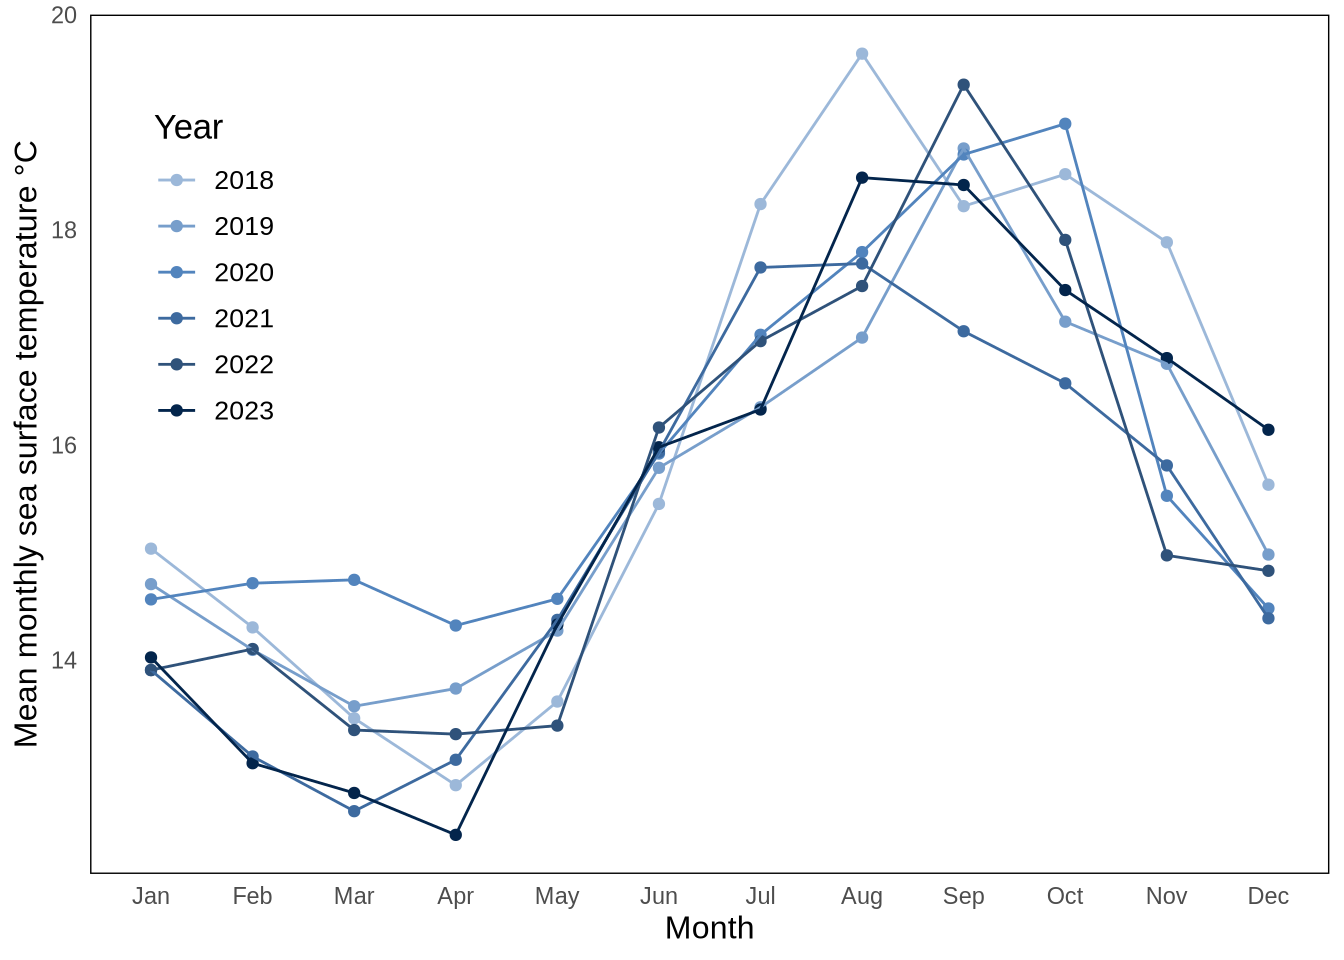
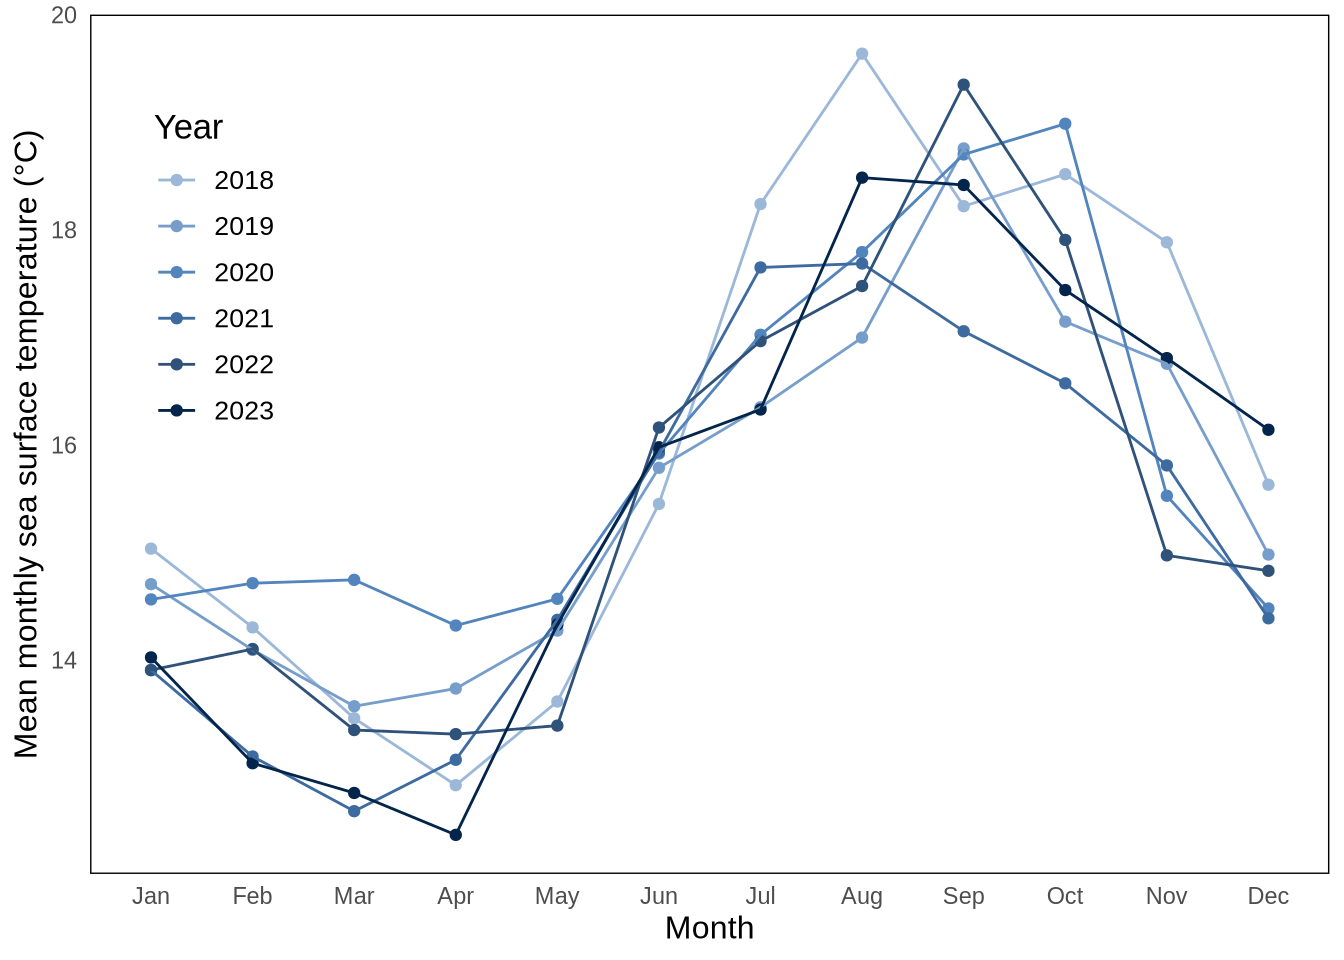
final render, formatting check

Changed region(s): [[0.0, 0.1875, 0.0312, 0.7812]]

diff --git a/code/ENVS-193DS_spring-2025_final.html b/code/ENVS-193DS_spring-2025_final.html
@@ -186,11 +186,11 @@ pre > code.sourceCode > span > a:first-child::before { text-decoration: underlin
 <pre><code># A tibble: 5 × 3
   year  month mean_monthly_sst
   &lt;fct&gt; &lt;ord&gt;            &lt;dbl&gt;
-1 2018  Nov               17.9
-2 2020  Jan               14.6
-3 2023  Mar               12.8
-4 2021  Jun               15.9
-5 2018  Dec               15.6</code></pre>
+1 2022  May               13.4
+2 2018  Jul               18.2
+3 2018  Mar               13.5
+4 2022  Mar               13.3
+5 2023  Mar               12.8</code></pre>
 </div>
 <div class="sourceCode cell-code" id="cb5"><pre class="sourceCode r code-with-copy"><code class="sourceCode r"><span id="cb5-1"><a href="#cb5-1" aria-hidden="true" tabindex="-1"></a><span class="fu">str</span>(sst_clean) <span class="co"># viewing clean dataset structure</span></span></code><button title="Copy to Clipboard" class="code-copy-button"><i class="bi"></i></button></pre></div>
 <div class="cell-output cell-output-stdout">
@@ -212,7 +212,7 @@ pre > code.sourceCode > span > a:first-child::before { text-decoration: underlin
 <span id="cb7-8"><a href="#cb7-8" aria-hidden="true" tabindex="-1"></a>  </span>
 <span id="cb7-9"><a href="#cb7-9" aria-hidden="true" tabindex="-1"></a>  <span class="co"># labeling the axis and legend</span></span>
 <span id="cb7-10"><a href="#cb7-10" aria-hidden="true" tabindex="-1"></a>  <span class="fu">labs</span>(<span class="at">x =</span> <span class="st">"Month"</span>, <span class="co"># labeling the x-axis</span></span>
-<span id="cb7-11"><a href="#cb7-11" aria-hidden="true" tabindex="-1"></a>       <span class="at">y =</span> <span class="st">"Mean monthly sea surface temperature °C"</span>, <span class="co"># labeling the y-axis</span></span>
+<span id="cb7-11"><a href="#cb7-11" aria-hidden="true" tabindex="-1"></a>       <span class="at">y =</span> <span class="st">"Mean monthly sea surface temperature (°C)"</span>, <span class="co"># labeling the y-axis</span></span>
 <span id="cb7-12"><a href="#cb7-12" aria-hidden="true" tabindex="-1"></a>       <span class="at">color =</span> <span class="st">"Year"</span>) <span class="sc">+</span> <span class="co"># setting legend title</span></span>
 <span id="cb7-13"><a href="#cb7-13" aria-hidden="true" tabindex="-1"></a>  <span class="fu">scale_color_manual</span>(<span class="at">values =</span> <span class="fu">c</span>( <span class="co"># manually defining colors for each year</span></span>
 <span id="cb7-14"><a href="#cb7-14" aria-hidden="true" tabindex="-1"></a>    <span class="st">"2018"</span> <span class="ot">=</span> year2018_col,</span>
@@ -391,6 +391,9 @@ model3  2 229.6716
 model2  2 236.3744
 model0  1 238.8318</code></pre>
 </div>
+</div>
+<p>The best model as determined by Akaike’s Information Criterion (AIC) is the saturated model, including season and distance to forest edge.</p>
+<div class="cell">
 <div class="sourceCode cell-code" id="cb15"><pre class="sourceCode r code-with-copy"><code class="sourceCode r"><span id="cb15-1"><a href="#cb15-1" aria-hidden="true" tabindex="-1"></a><span class="co"># Viewing model summary</span></span>
 <span id="cb15-2"><a href="#cb15-2" aria-hidden="true" tabindex="-1"></a><span class="fu">summary</span>(model1)</span></code><button title="Copy to Clipboard" class="code-copy-button"><i class="bi"></i></button></pre></div>
 <div class="cell-output cell-output-stdout">
@@ -416,7 +419,6 @@ AIC: 226.21
 Number of Fisher Scoring iterations: 4</code></pre>
 </div>
 </div>
-<p>The best model as determined by Akaike’s Information Criterion (AIC) is the saturated model, including season and distance to forest edge with an AICc value of 226.3.</p>
 <p><strong>[H] Visualize the model predictions</strong></p>
 <div class="cell">
 <div class="sourceCode cell-code" id="cb17"><pre class="sourceCode r code-with-copy"><code class="sourceCode r"><span id="cb17-1"><a href="#cb17-1" aria-hidden="true" tabindex="-1"></a>model1_predictions <span class="ot">&lt;-</span> <span class="fu">ggpredict</span>( <span class="co"># generating predicted values from the logistic regression model1</span></span>
@@ -426,7 +428,8 @@ Number of Fisher Scoring iterations: 4</code></pre>
 <span id="cb17-5"><a href="#cb17-5" aria-hidden="true" tabindex="-1"></a>) <span class="sc">|&gt;</span> </span>
 <span id="cb17-6"><a href="#cb17-6" aria-hidden="true" tabindex="-1"></a>  <span class="fu">rename</span>(<span class="at">edge_distance =</span> x, <span class="co"># renaming the columns</span></span>
 <span id="cb17-7"><a href="#cb17-7" aria-hidden="true" tabindex="-1"></a>         <span class="at">season =</span> group)</span>
-<span id="cb17-8"><a href="#cb17-8" aria-hidden="true" tabindex="-1"></a>model1_predictions<span class="sc">$</span>season <span class="ot">&lt;-</span> <span class="fu">as.character</span>(model1_predictions<span class="sc">$</span>season) <span class="co"># convert column from factor to character</span></span></code><button title="Copy to Clipboard" class="code-copy-button"><i class="bi"></i></button></pre></div>
+<span id="cb17-8"><a href="#cb17-8" aria-hidden="true" tabindex="-1"></a></span>
+<span id="cb17-9"><a href="#cb17-9" aria-hidden="true" tabindex="-1"></a>model1_predictions<span class="sc">$</span>season <span class="ot">&lt;-</span> <span class="fu">as.character</span>(model1_predictions<span class="sc">$</span>season) <span class="co"># convert column from factor to character</span></span></code><button title="Copy to Clipboard" class="code-copy-button"><i class="bi"></i></button></pre></div>
 </div>
 <div class="cell">
 <div class="sourceCode cell-code" id="cb18"><pre class="sourceCode r code-with-copy"><code class="sourceCode r"><span id="cb18-1"><a href="#cb18-1" aria-hidden="true" tabindex="-1"></a><span class="co"># base layer: ggplot</span></span>
@@ -456,39 +459,63 @@ Number of Fisher Scoring iterations: 4</code></pre>
 <span id="cb18-25"><a href="#cb18-25" aria-hidden="true" tabindex="-1"></a>            <span class="fu">aes</span>(<span class="at">x =</span> edge_distance, <span class="co"># x-axis</span></span>
 <span id="cb18-26"><a href="#cb18-26" aria-hidden="true" tabindex="-1"></a>                <span class="at">y =</span> predicted, <span class="co"># y-axis (probability)</span></span>
 <span id="cb18-27"><a href="#cb18-27" aria-hidden="true" tabindex="-1"></a>                <span class="at">color =</span> season, <span class="at">group =</span> season), <span class="co"># line and group color by season</span></span>
-<span id="cb18-28"><a href="#cb18-28" aria-hidden="true" tabindex="-1"></a>            <span class="at">size =</span> <span class="fl">1.2</span>, <span class="co"># line thickness</span></span>
-<span id="cb18-29"><a href="#cb18-29" aria-hidden="true" tabindex="-1"></a>            <span class="at">inherit.aes =</span> <span class="cn">FALSE</span>) <span class="sc">+</span> <span class="co"># avoid main aesthetics</span></span>
-<span id="cb18-30"><a href="#cb18-30" aria-hidden="true" tabindex="-1"></a> </span>
-<span id="cb18-31"><a href="#cb18-31" aria-hidden="true" tabindex="-1"></a>  <span class="co"># manually setting colors for seasons</span></span>
-<span id="cb18-32"><a href="#cb18-32" aria-hidden="true" tabindex="-1"></a>  <span class="fu">scale_color_manual</span>(<span class="at">values =</span> <span class="fu">c</span>(<span class="st">"2016"</span> <span class="ot">=</span> <span class="st">"steelblue"</span>, <span class="st">"2019"</span> <span class="ot">=</span> <span class="st">"darkred"</span>)) <span class="sc">+</span></span>
-<span id="cb18-33"><a href="#cb18-33" aria-hidden="true" tabindex="-1"></a>  <span class="fu">scale_fill_manual</span>(<span class="at">values =</span> <span class="fu">c</span>(<span class="st">"2016"</span> <span class="ot">=</span> <span class="st">"steelblue"</span>, <span class="st">"2019"</span> <span class="ot">=</span> <span class="st">"darkred"</span>)) <span class="sc">+</span></span>
-<span id="cb18-34"><a href="#cb18-34" aria-hidden="true" tabindex="-1"></a>  </span>
-<span id="cb18-35"><a href="#cb18-35" aria-hidden="true" tabindex="-1"></a>  <span class="co"># wrapping x-axis labels</span></span>
-<span id="cb18-36"><a href="#cb18-36" aria-hidden="true" tabindex="-1"></a>  <span class="fu">scale_x_discrete</span>(<span class="at">labels =</span> <span class="fu">label_wrap</span>(<span class="at">width =</span> <span class="dv">10</span>)) <span class="sc">+</span></span>
-<span id="cb18-37"><a href="#cb18-37" aria-hidden="true" tabindex="-1"></a>  </span>
-<span id="cb18-38"><a href="#cb18-38" aria-hidden="true" tabindex="-1"></a>  <span class="co"># creating different panels for each species</span></span>
-<span id="cb18-39"><a href="#cb18-39" aria-hidden="true" tabindex="-1"></a>  <span class="fu">facet_wrap</span>(<span class="sc">~</span>season, <span class="at">nrow =</span> <span class="dv">1</span>) <span class="sc">+</span></span>
-<span id="cb18-40"><a href="#cb18-40" aria-hidden="true" tabindex="-1"></a>  </span>
-<span id="cb18-41"><a href="#cb18-41" aria-hidden="true" tabindex="-1"></a>  <span class="co"># labeling x- and y-axis</span></span>
-<span id="cb18-42"><a href="#cb18-42" aria-hidden="true" tabindex="-1"></a>  <span class="fu">labs</span>(<span class="at">x =</span> <span class="st">"Distance from Forest Edge (m)"</span>,</span>
-<span id="cb18-43"><a href="#cb18-43" aria-hidden="true" tabindex="-1"></a>       <span class="at">y =</span> <span class="st">"Swift Parrot Presence"</span>) <span class="sc">+</span></span>
-<span id="cb18-44"><a href="#cb18-44" aria-hidden="true" tabindex="-1"></a>  </span>
-<span id="cb18-45"><a href="#cb18-45" aria-hidden="true" tabindex="-1"></a>  <span class="fu">theme_minimal</span>(<span class="at">base_size =</span> <span class="dv">14</span>) <span class="sc">+</span> <span class="co"># minimal theme</span></span>
-<span id="cb18-46"><a href="#cb18-46" aria-hidden="true" tabindex="-1"></a>  <span class="fu">theme</span>(  <span class="co"># custom theming</span></span>
-<span id="cb18-47"><a href="#cb18-47" aria-hidden="true" tabindex="-1"></a>    <span class="at">legend.position =</span> <span class="st">"none"</span>, <span class="co"># remove color legend</span></span>
-<span id="cb18-48"><a href="#cb18-48" aria-hidden="true" tabindex="-1"></a>    <span class="at">panel.grid.major =</span> <span class="fu">element_blank</span>(), <span class="at">panel.grid.minor =</span> <span class="fu">element_blank</span>() <span class="co"># remove major and minor gridlines</span></span>
-<span id="cb18-49"><a href="#cb18-49" aria-hidden="true" tabindex="-1"></a>  )</span></code><button title="Copy to Clipboard" class="code-copy-button"><i class="bi"></i></button></pre></div>
+<span id="cb18-28"><a href="#cb18-28" aria-hidden="true" tabindex="-1"></a>            <span class="at">size =</span> <span class="fl">1.2</span>) <span class="sc">+</span> <span class="co"># line thickness</span></span>
+<span id="cb18-29"><a href="#cb18-29" aria-hidden="true" tabindex="-1"></a> </span>
+<span id="cb18-30"><a href="#cb18-30" aria-hidden="true" tabindex="-1"></a>  <span class="co"># manually setting colors for seasons</span></span>
+<span id="cb18-31"><a href="#cb18-31" aria-hidden="true" tabindex="-1"></a>  <span class="fu">scale_color_manual</span>(<span class="at">values =</span> <span class="fu">c</span>(<span class="st">"2016"</span> <span class="ot">=</span> <span class="st">"steelblue"</span>, <span class="st">"2019"</span> <span class="ot">=</span> <span class="st">"darkred"</span>)) <span class="sc">+</span></span>
+<span id="cb18-32"><a href="#cb18-32" aria-hidden="true" tabindex="-1"></a>  <span class="fu">scale_fill_manual</span>(<span class="at">values =</span> <span class="fu">c</span>(<span class="st">"2016"</span> <span class="ot">=</span> <span class="st">"steelblue"</span>, <span class="st">"2019"</span> <span class="ot">=</span> <span class="st">"darkred"</span>)) <span class="sc">+</span></span>
+<span id="cb18-33"><a href="#cb18-33" aria-hidden="true" tabindex="-1"></a>  </span>
+<span id="cb18-34"><a href="#cb18-34" aria-hidden="true" tabindex="-1"></a>  <span class="co"># wrapping x-axis labels</span></span>
+<span id="cb18-35"><a href="#cb18-35" aria-hidden="true" tabindex="-1"></a>  <span class="fu">scale_x_discrete</span>(<span class="at">labels =</span> <span class="fu">label_wrap</span>(<span class="at">width =</span> <span class="dv">10</span>)) <span class="sc">+</span></span>
+<span id="cb18-36"><a href="#cb18-36" aria-hidden="true" tabindex="-1"></a>  </span>
+<span id="cb18-37"><a href="#cb18-37" aria-hidden="true" tabindex="-1"></a>  <span class="co"># creating different panels for each species</span></span>
+<span id="cb18-38"><a href="#cb18-38" aria-hidden="true" tabindex="-1"></a>  <span class="fu">facet_wrap</span>(<span class="sc">~</span>season, <span class="at">nrow =</span> <span class="dv">1</span>) <span class="sc">+</span></span>
+<span id="cb18-39"><a href="#cb18-39" aria-hidden="true" tabindex="-1"></a>  </span>
+<span id="cb18-40"><a href="#cb18-40" aria-hidden="true" tabindex="-1"></a>  <span class="co"># labeling x- and y-axis</span></span>
+<span id="cb18-41"><a href="#cb18-41" aria-hidden="true" tabindex="-1"></a>  <span class="fu">labs</span>(<span class="at">x =</span> <span class="st">"Distance from Forest Edge (m)"</span>,</span>
+<span id="cb18-42"><a href="#cb18-42" aria-hidden="true" tabindex="-1"></a>       <span class="at">y =</span> <span class="st">"Probability of Swift Parrot Occupying Nest Boxes"</span>) <span class="sc">+</span></span>
+<span id="cb18-43"><a href="#cb18-43" aria-hidden="true" tabindex="-1"></a>  </span>
+<span id="cb18-44"><a href="#cb18-44" aria-hidden="true" tabindex="-1"></a>  <span class="fu">theme_minimal</span>(<span class="at">base_size =</span> <span class="dv">14</span>) <span class="sc">+</span> <span class="co"># minimal theme</span></span>
+<span id="cb18-45"><a href="#cb18-45" aria-hidden="true" tabindex="-1"></a>  <span class="fu">theme</span>(  <span class="co"># custom theming</span></span>
+<span id="cb18-46"><a href="#cb18-46" aria-hidden="true" tabindex="-1"></a>    <span class="at">legend.position =</span> <span class="st">"none"</span>, <span class="co"># remove color legend</span></span>
+<span id="cb18-47"><a href="#cb18-47" aria-hidden="true" tabindex="-1"></a>    <span class="at">panel.grid.major =</span> <span class="fu">element_blank</span>(), <span class="at">panel.grid.minor =</span> <span class="fu">element_blank</span>() <span class="co"># remove major and minor gridlines</span></span>
+<span id="cb18-48"><a href="#cb18-48" aria-hidden="true" tabindex="-1"></a>  )</span></code><button title="Copy to Clipboard" class="code-copy-button"><i class="bi"></i></button></pre></div>
 <div class="cell-output-display">
 <div>
 <figure class="figure">
-<p><img src="ENVS-193DS_spring-2025_final_files/figure-html/unnamed-chunk-8-1.png" class="img-fluid figure-img" width="1152"></p>
+<p><img src="ENVS-193DS_spring-2025_final_files/figure-html/unnamed-chunk-9-1.png" class="img-fluid figure-img" width="1152"></p>
 </figure>
 </div>
 </div>
 </div>
-<p><strong>[I]</strong></p>
+<p><strong>Figure 1.</strong> Swift Parrot Presence Probability by Distance from Forest Edge and Season. This figure shows observed Swift Parrot presence plotted against distance from the forest edge, separated by season (2016 and 2019). Jittered points represent individual occupancy observations from nest boxes. Predicted probabilities of Swift Parrot presence from a logistic regression model (model1) are overlaid with a 95% confidence interval. The predictions illustrate how the likelihood of Swift Parrot presence varies with edge distance between seasons.</p>
 <p><strong>[J] Calculate model predictions</strong></p>
-<p><strong>[K] </strong></p>
+<div class="cell">
+<div class="sourceCode cell-code" id="cb19"><pre class="sourceCode r code-with-copy"><code class="sourceCode r"><span id="cb19-1"><a href="#cb19-1" aria-hidden="true" tabindex="-1"></a>sp_prediction <span class="ot">&lt;-</span> <span class="fu">ggpredict</span>( </span>
+<span id="cb19-2"><a href="#cb19-2" aria-hidden="true" tabindex="-1"></a>  model1, <span class="co"># using model1 to predict values</span></span>
+<span id="cb19-3"><a href="#cb19-3" aria-hidden="true" tabindex="-1"></a>  <span class="at">terms =</span> <span class="fu">c</span>(<span class="st">"edge_distance [0,900]"</span>, <span class="st">"season"</span>) <span class="co"># selecting edge distance at 0 and 900, and seasons</span></span>
+<span id="cb19-4"><a href="#cb19-4" aria-hidden="true" tabindex="-1"></a>)</span>
+<span id="cb19-5"><a href="#cb19-5" aria-hidden="true" tabindex="-1"></a><span class="fu">print</span>(sp_prediction) <span class="co"># printing the results</span></span></code><button title="Copy to Clipboard" class="code-copy-button"><i class="bi"></i></button></pre></div>
+<div class="cell-output cell-output-stdout">
+<pre><code># Predicted probabilities of sp
+
+season: 2016
+
+edge_distance | Predicted |     95% CI
+--------------------------------------
+            0 |      0.48 | 0.33, 0.64
+          900 |      0.12 | 0.06, 0.24
+
+season: 2019
+
+edge_distance | Predicted |     95% CI
+--------------------------------------
+            0 |      0.30 | 0.18, 0.44
+          900 |      0.06 | 0.03, 0.13</code></pre>
+</div>
+</div>
+<p><strong>[K] Interpreting results</strong></p>
+<p>We found a significant effect of both season and distance from forest edge on Swift parrot nest box occupancy (z = -3.34 for distance, p &lt; 0.001; z = -2.30 for season, p = 0.0215, α = 0.05). As distance from the forest edge increased occupancy declined and was lower in 2019 than in the 2016 season [Figure 1]. The predicted probability of occupancy at 0 m was 48% in 2016 and 30% in 2019, while at 900 m it dropped to 12% and 6%, respectively [Figure 1]. These results align with the results in the study where Tree martins increased their occupancy of nest boxes as distance from the forest edge decreased. This suggests Swift Parrots prefer nesting near forest edges, potentially due to lacking resources or reduced competition with Tree martins and that nest box placement may be benefiting non-target species depending on their habitat preferences.</p>
 </section>
 <section id="problem-4.-affective-and-exploratory-visualizations" class="level2">
 <h2 class="anchored" data-anchor-id="problem-4.-affective-and-exploratory-visualizations">Problem 4. Affective and Exploratory Visualizations</h2>
